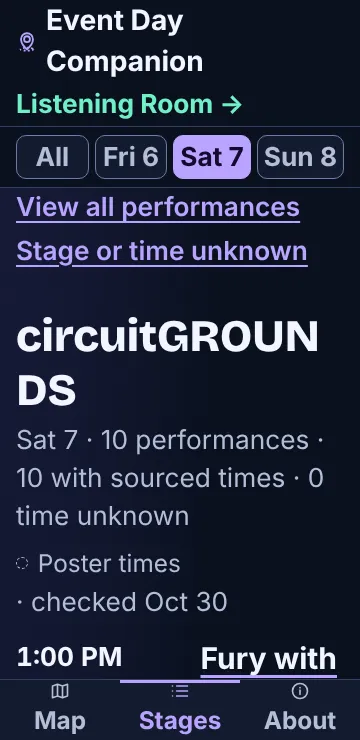
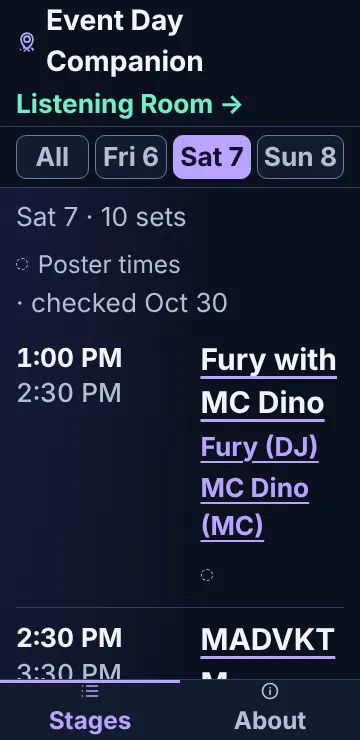
Docs and evidence for design review R1 fixes
Recapture all 17 Session 2 screenshots at code cb8947d (the Map landing is replaced
by a Stages landing at 360 and 280), and update QA.md and the implementation handoff
for the removed Map tab, the collapsed Schedule status disclosure and the #/map
redirect.

Claude-Session: https://claude.ai/code/session_01J577LaeP7DM2HPrA6vSfB1

Changed region(s): [[0.0306, 0.2486, 0.9472, 0.7459], [0.0, 0.7459, 0.9472, 0.9946], [0.0917, 0.7459, 0.3056, 0.777]]

diff --git a/docs/companion-session2/capture.js b/docs/companion-session2/capture.js
@@ -15,7 +15,7 @@ const server = http.createServer((req, res) => {
   } catch { res.writeHead(404).end(); }
 });
 const SHOTS = [
-  ['01-map-gated-landing-360', 360, 740, '#/map'], ['02-stage-fri-360', 360, 740, '#/explore?day=2026-11-06&stage=kinetic-field'],
+  ['01-stages-landing-360', 360, 740, ''], ['02-stage-fri-360', 360, 740, '#/explore?day=2026-11-06&stage=kinetic-field'],
   ['03-stage-all-days-360', 360, 740, '#/explore?stage=circuit-grounds'], ['04-casa-empty-360', 360, 740, '#/explore?day=2026-11-06&stage=casa-bacardi'],
   ['05-stage-list-360', 360, 740, '#/stages?day=2026-11-07'], ['06-unscheduled-360', 360, 740, '#/unscheduled?day=2026-11-06'],
   ['07-b2b-detail-360', 360, 740, '#/performance/edco26%3A2026-11-07%3Aacraze-b2b-cid?day=2026-11-07&stage=kinetic-field'],
@@ -24,6 +24,7 @@ const SHOTS = [
   ['12-landscape-844', 844, 390, '#/explore?day=2026-11-06&stage=kinetic-field'], ['13-load-failure-360', 360, 740, '#/explore', 'fail'],
   ['14-sticky-scrolled-360', 360, 740, '#/explore?day=2026-11-07&stage=circuit-grounds', 'scroll'],
   ['15-sticky-wrapped-header-200pct-360', 360, 740, '#/explore?day=2026-11-07&stage=circuit-grounds', 'zoom'],
+  ['17-stages-landing-280', 280, 653, ''],
   ['16-forced-colors-360', 360, 740, '#/explore?day=2026-11-07&stage=circuit-grounds', 'forced']
 ];
 (async () => {

diff --git a/docs/companion-session2/QA.md b/docs/companion-session2/QA.md
@@ -1,6 +1,8 @@
 # Session 2 (lane A) implementation notes and evidence — November 1, 2026
 
-**Evidence head:** code `ab9109c`. All screenshots in [shots/](shots/) were captured from the review build of that code SHA (earlier captures predated the linked-billing, detail-page and sticky-offset fixes and were replaced). This is review-build evidence, **not** final designer sign-off.
+**Design review R1 update (PD-2/3/4), code `cb8947d`:** the Map tab is removed and the landing is Stages with the first stage card above the fold at 360×740 and 280×653 (PD-3, PD-4); the caveat is a collapsed "Schedule status" disclosure with the counts one tap away and in About → Coverage; stage cards use "28 sets · poster times" (PD-4); and the Listening Room "Hear <day>" rail scrolls keyboard-focused cards into view (PD-2, `listening-room/app.js`). **All screenshots below were recaptured at `cb8947d`.** Earlier statements here about a gated Map tab are superseded.
+
+**Earlier evidence head:** code `ab9109c`. All screenshots in [shots/](shots/) were captured from the review build of that code SHA (earlier captures predated the linked-billing, detail-page and sticky-offset fixes and were replaced). This is review-build evidence, **not** final designer sign-off.
 
 **Later code head `e5d1854`** adds the QA accessibility fixes (A11Y-001 focus after Back, A11Y-005 retry recovery focus and announcement, A11Y-002 unavailable-view heading and title). Those change focus handling, one heading and document titles only; they do not change layout, so the screenshots below remain representative. They are not recaptured. A11Y-003/004 (P3 polish) are deferred.
 
@@ -12,10 +14,10 @@ Queue: [#77](https://github.com/johnapaz/edc-listening-room/issues/77) lane A ·
 
 ## What changed
 
-- **S10 gated Map tab.** The bare URL and `#/map` land on the stage list under "Map coming later" plus an organizer-homepage link. No map graphic, hotspot, map control, coordinate, copied artwork or GPS/route/offline claim is mounted. `StageHotspot`/`hotspots()` remain an unmounted seam that requires verified geometry.
+- **No Map tab (PD-3, superseding the S10 Map tab).** Tabs are Stages and About and the bare URL lands on Stages. `#/map` is only a legacy alias: it always redirects by replacing the history entry (a stage to its page, `?set=`/`?artist=` to the detail page, anything else to Stages). No map graphic, hotspot, map control, coordinate, copied artwork or GPS/route/offline claim is mounted, and no visible navigation item says "Map". The organizer-homepage link stays as a one-line note under the stage list and in About. `StageHotspot`/`hotspots()` remain an unmounted seam that requires verified geometry.
 - **Routes.** `#/map`, `#/stages`, `#/unscheduled`, `#/sources` (alias `#/about`) and `#/stage/{id}` (alias of `#/explore?stage=`) are new. Legacy `#/explore`, `#/artist/{id}` and `#/performance/{id}` links are unchanged. `#/map?stage=` redirects to the stage page, `?set=`/`?artist=` open the detail page, and an unknown stage on the map is ignored silently; all by **replacing** the history entry through the pure `resolveRoute()`.
 - **Sticky layout.** The app bar can wrap (wide system fonts, text zoom) and the day strip can wrap on narrow screens, so `app.js` measures the real pinned heights into `--bar-h`/`--strip-h` (zero when a bar is not pinned: landscape, Fold cover); CSS offsets and scroll margins use them. Sticky bars are opaque.
-- **Navigation.** Primary Map/Stages/About links (bottom tab bar on phones, header links ≥1100px) and the wordmark carry the day; Map returns to the last stage picked (in memory only). The skip link focuses `<main>` without changing the route.
+- **Navigation.** Primary Stages/About links (bottom tab bar on phones, header links ≥1100px) and the wordmark carry the day. The skip link focuses `<main>` without changing the route.
 - **Day switch** is four native links with `aria-current="true"`. There is no `aria-pressed` and no radiogroup anywhere (asserted by a browser test).
 - **Set rows:** time column (next-day ends shown as "+1"), billing as a native link to the performance details (context preserved), qualifier chip, status badge, separate artist links for multi-artist billings, and one mint "Hear {artist}" link per credited identity that has reviewed tracks. A shared status is spelled out once in the list header; rows whose status differs, or any row in a mixed list, spell out their own. Programs show "Program · no artist page" and never a link.
 - **Detail (S5):** per-identity Listening Room links by stable ID only; "No reviewed tracks yet" plus a plain artist-page link; "Not on {day}" notice; a program explains why there is no artist page.
@@ -29,7 +31,7 @@ Queue: [#77](https://github.com/johnapaz/edc-listening-room/issues/77) lane A ·
 
 ## Deliberate deviations from the design drafts (all reversible, isolated in components/CSS)
 
-- The bare URL now lands on the Map tab (S1/S10). Full-lineup browser assertions moved to `#/explore`, unchanged.
+- The bare URL lands on the stage list (PD-3; it previously landed on a gated Map tab). Full-lineup browser assertions moved to `#/explore`, unchanged.
 - The contract specifies plain billing plus a Details link; per the owner's preference (PR comment, "artist names clickable wherever they appear") the billing is the native details link and there is no separate Details link. Multi-artist billings also list each artist as a link; programs link to their details only.
 - B2B/alias performance pages offer one Hear link per credited identity instead of one link to the performance ID, per contract §2.
 - Day links use `aria-current="true"` (previously `"date"`, which claims "today").

diff --git a/docs/COMPANION-IMPLEMENTATION-HANDOFF.md b/docs/COMPANION-IMPLEMENTATION-HANDOFF.md
@@ -30,12 +30,13 @@ No framework or production dependencies. `companion/lib.js` is pure UMD logic; i
 | `hasTime`, `coverage`, `timeLabel` | performance or performance rows | source-grounded schedule availability, truthful coverage, Orlando clock labels including next-day midnight |
 | `parseHash`, `buildHash`, `transition` | route/state/actions | stable encoded identifiers and day/stage context; no name searches |
 | `DayPicker({state})` | current route | navigable day links retaining selection; focused day is retained on filtering |
-| `FestivalMap()` | no usable geometry yet | "Map coming later" state with organizer link; no map graphic or fake controls |
+| `MapNote()` | no usable geometry yet | one-line organizer-homepage note under the stage list; there is no map screen, graphic or fake control (PD-3) |
+| `ScheduleStatus({idx})` (alias `SourceNotice`) | coverage and source dates | a collapsed "Schedule status" disclosure (counts inside); a stale-data warning stays visible (PD-4) |
 | `StageHotspot({stage,state})` | audited normalized point from `hotspots(venues)` | future positioned anchor; integration seam only, **not mounted** without supported geometry/representation |
 | `StageList({idx,state})` | shared stages, day | five functional stage links, unassigned link and all-performance link; sourced-time counts |
 | `StagePanel({idx,state})` | selection | heading, counts, schedule or an honest no-sourced-schedule state |
 | `ScheduleList({rows,idx,state})` (alias `PerformanceSchedule`), `SetRow` (alias `PerformanceCard`) | queried rows | day groups, sourced times, separate unknown-time lists, set rows with status badge, a linked billing, per-artist links for multi-artist billings and per-identity Hear links |
-| `MapGatedView`, `StagesView`, `ExploreView`, `UnscheduledView`, `SourcesView`, `DetailView` | route state | the page for each view; `syncNav` keeps the primary navigation in step with the route |
+| `StagesView`, `ExploreView`, `UnscheduledView`, `SourcesView`, `DetailView` | route state | the page for each view; `syncNav` keeps the primary navigation in step with the route |
 | `ArtistEntry({artist,state,role})` | stable identity, optional DJ/MC role | clickable individual artist link |
 | `DetailView({idx,state,musicAvailable})` | artist or performance route | real identity/billing information, related current appearances, project members, direct Listening Room link or honest no-track state |
 | `StateBox({title,message,kind,retry})` | text, empty/loading/error kind, optional callback | semantic status/error with working retry |
@@ -45,8 +46,8 @@ Performance shapes: see [data contract](COMPANION-DATA-CONTRACT.md). A B2B is on
 
 ## Routes / navigation
 
-- `#/map` (also the bare URL): the S10 gated Map tab, the stage list under "Map coming later". `#/map?stage=…` redirects (replace) to the stage page; `?set=`/`?artist=` open the detail page; an unknown stage is ignored.
-- `#/stages?day=…`: stage list. `#/unscheduled?day=…`: current appearances with no sourced stage or time. `#/sources` (alias `#/about`): labels, schedule sources and the map disposition.
+- `#/stages?day=…` (also the bare URL): the stage list and landing page. Tabs are Stages and About; there is no Map tab (PD-3). `#/map` is a legacy alias that always redirects by replacing the entry: `?stage=…` to the stage page, `?set=`/`?artist=` to the detail page, otherwise to Stages; an unknown stage is ignored.
+- `#/unscheduled?day=…`: current appearances with no sourced stage or time. `#/sources` (alias `#/about`): labels, schedule sources and the map disposition.
 - `#/explore?day=2026-11-07&stage=kinetic-field` (alias `#/stage/kinetic-field?day=…`): the stage or all-performances page. `stage=unassigned` exposes every current appearance without a sourced stage; empty stage means all performances. All days is the neutral default.
 - `#/performance/{encoded performance_id}?day=…&stage=…` and `#/artist/{encoded artist_id}?day=…&stage=…`: detail pages (legacy links unchanged).
 - Day changes replace the current history entry; other navigation pushes. History stores route and scroll; browser Back/Forward and logical Back links restore context. Selecting the already selected stage/day is a no-op. Primary navigation carries the day; Map carries the last selected stage. Same-tab Listening Room links use stable artist IDs only; there is no name-search fallback. Browser Back returns across products.
